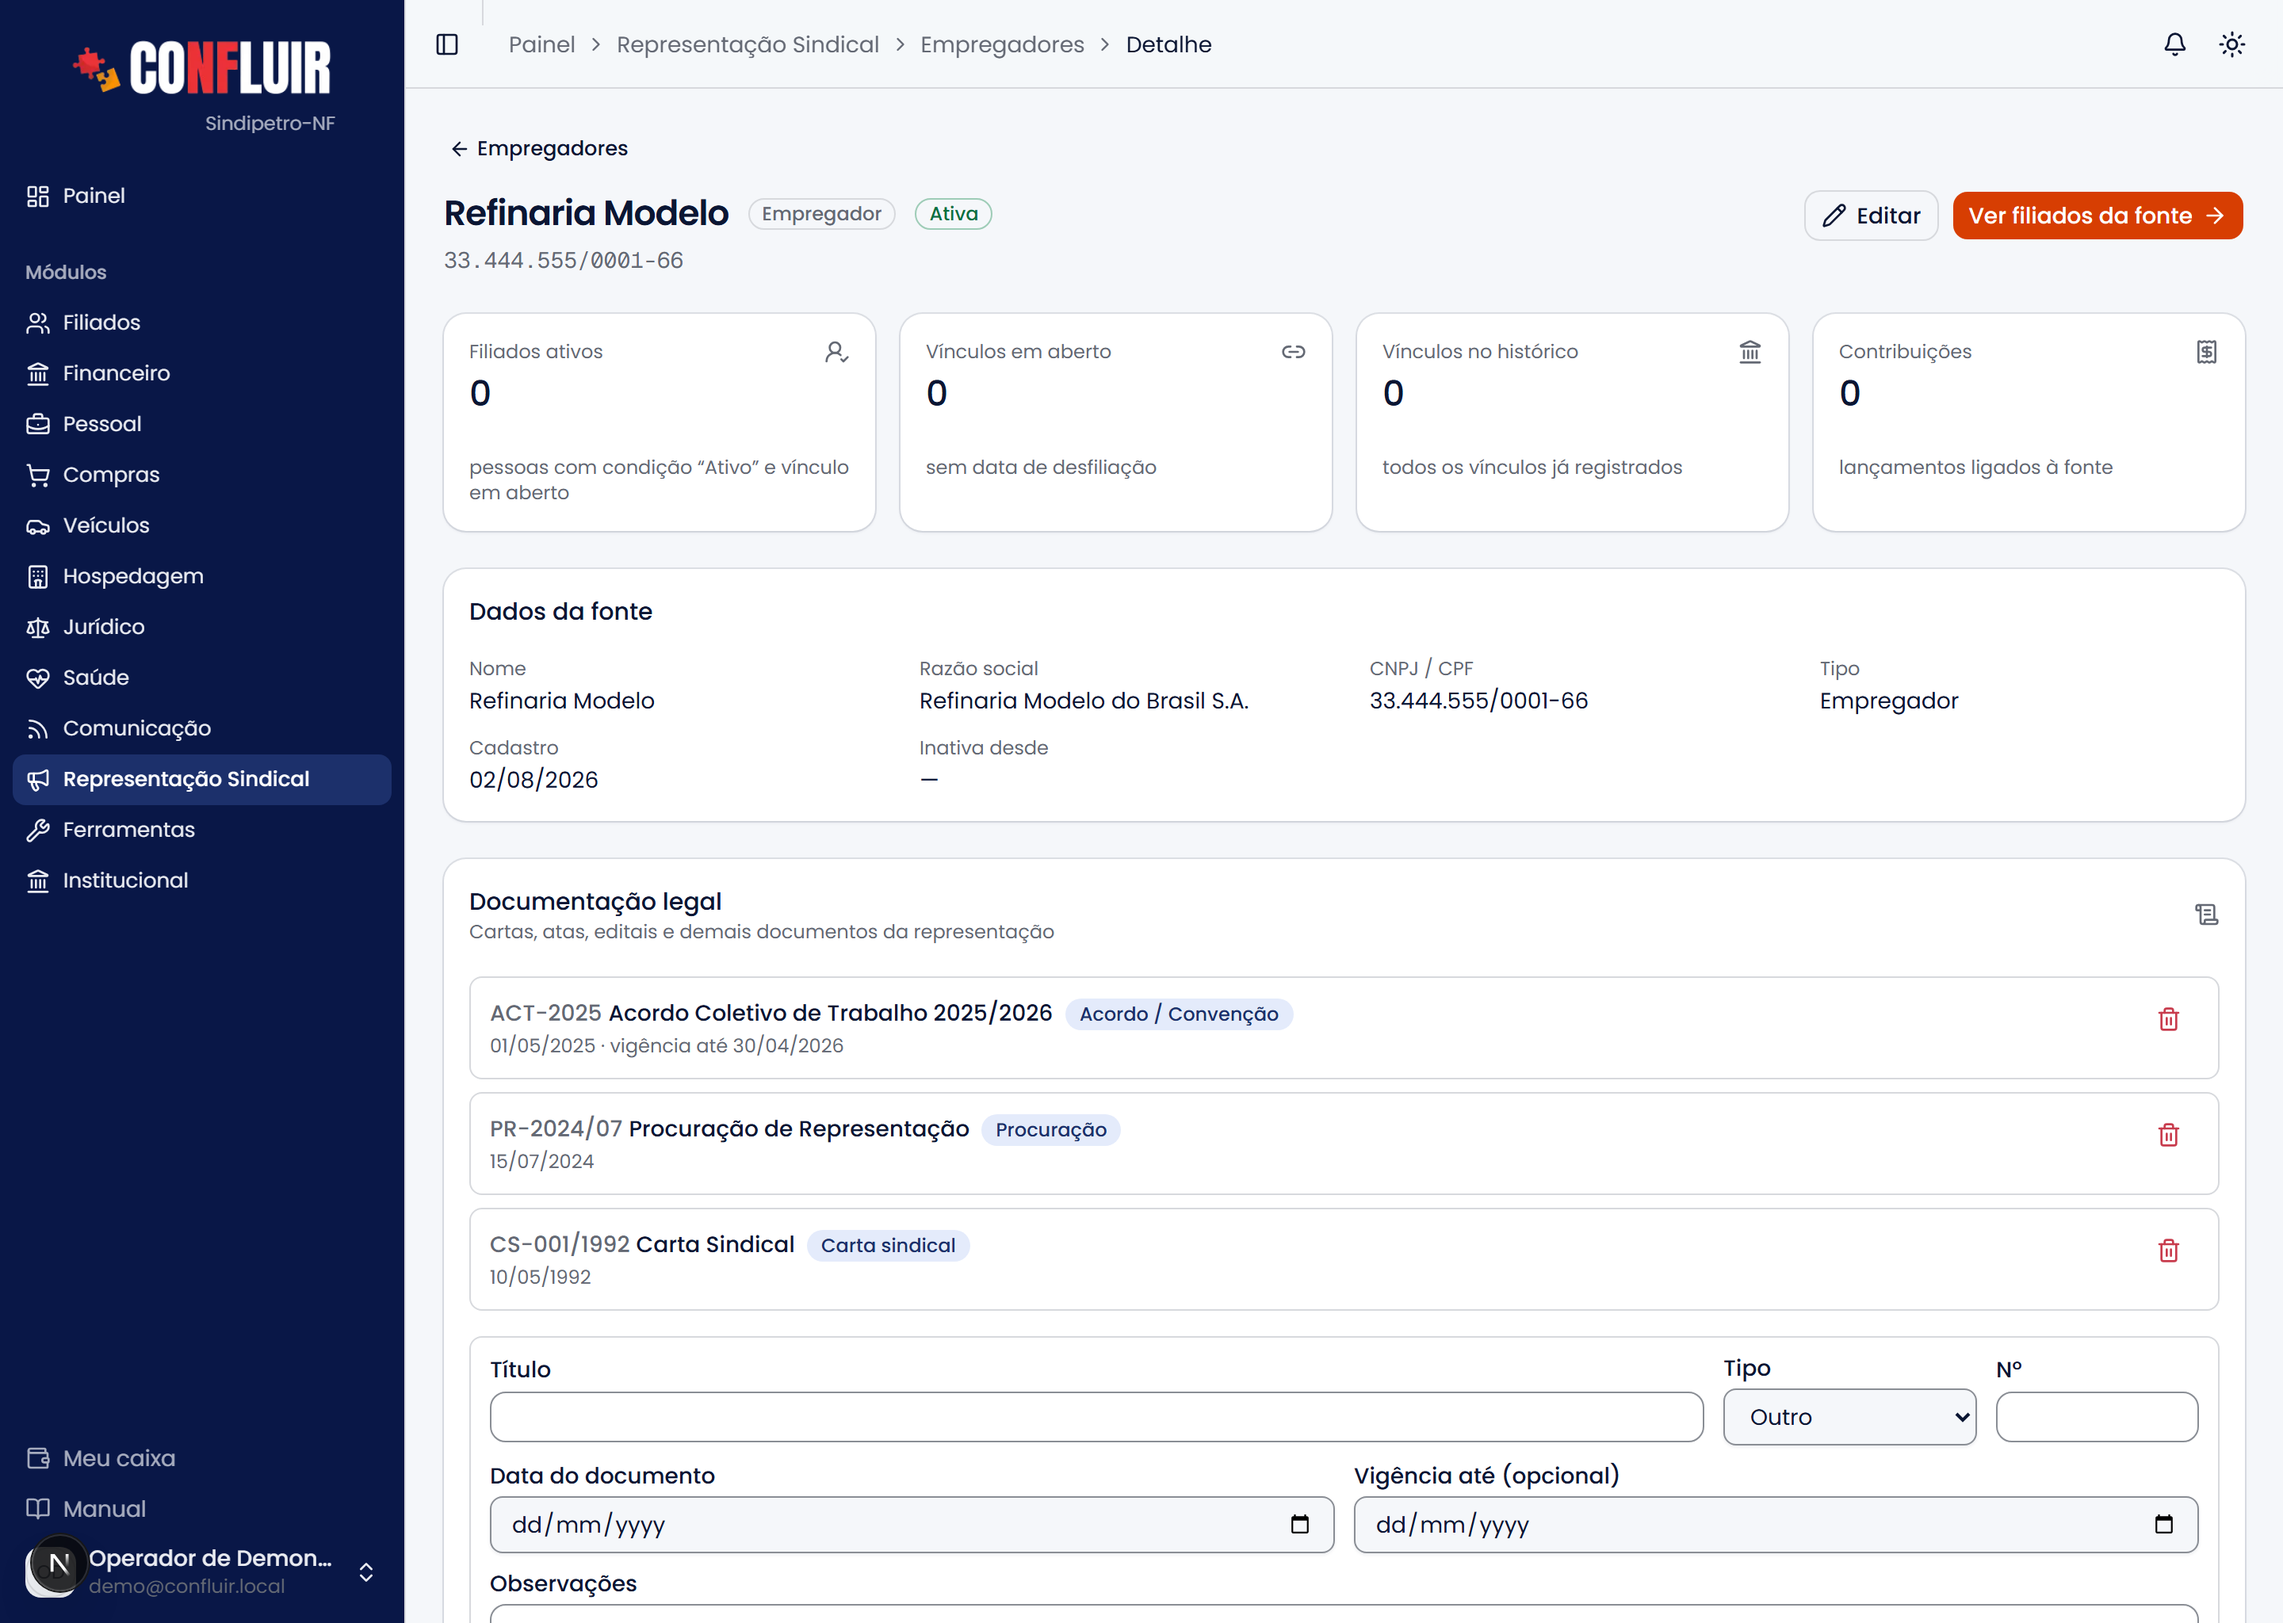
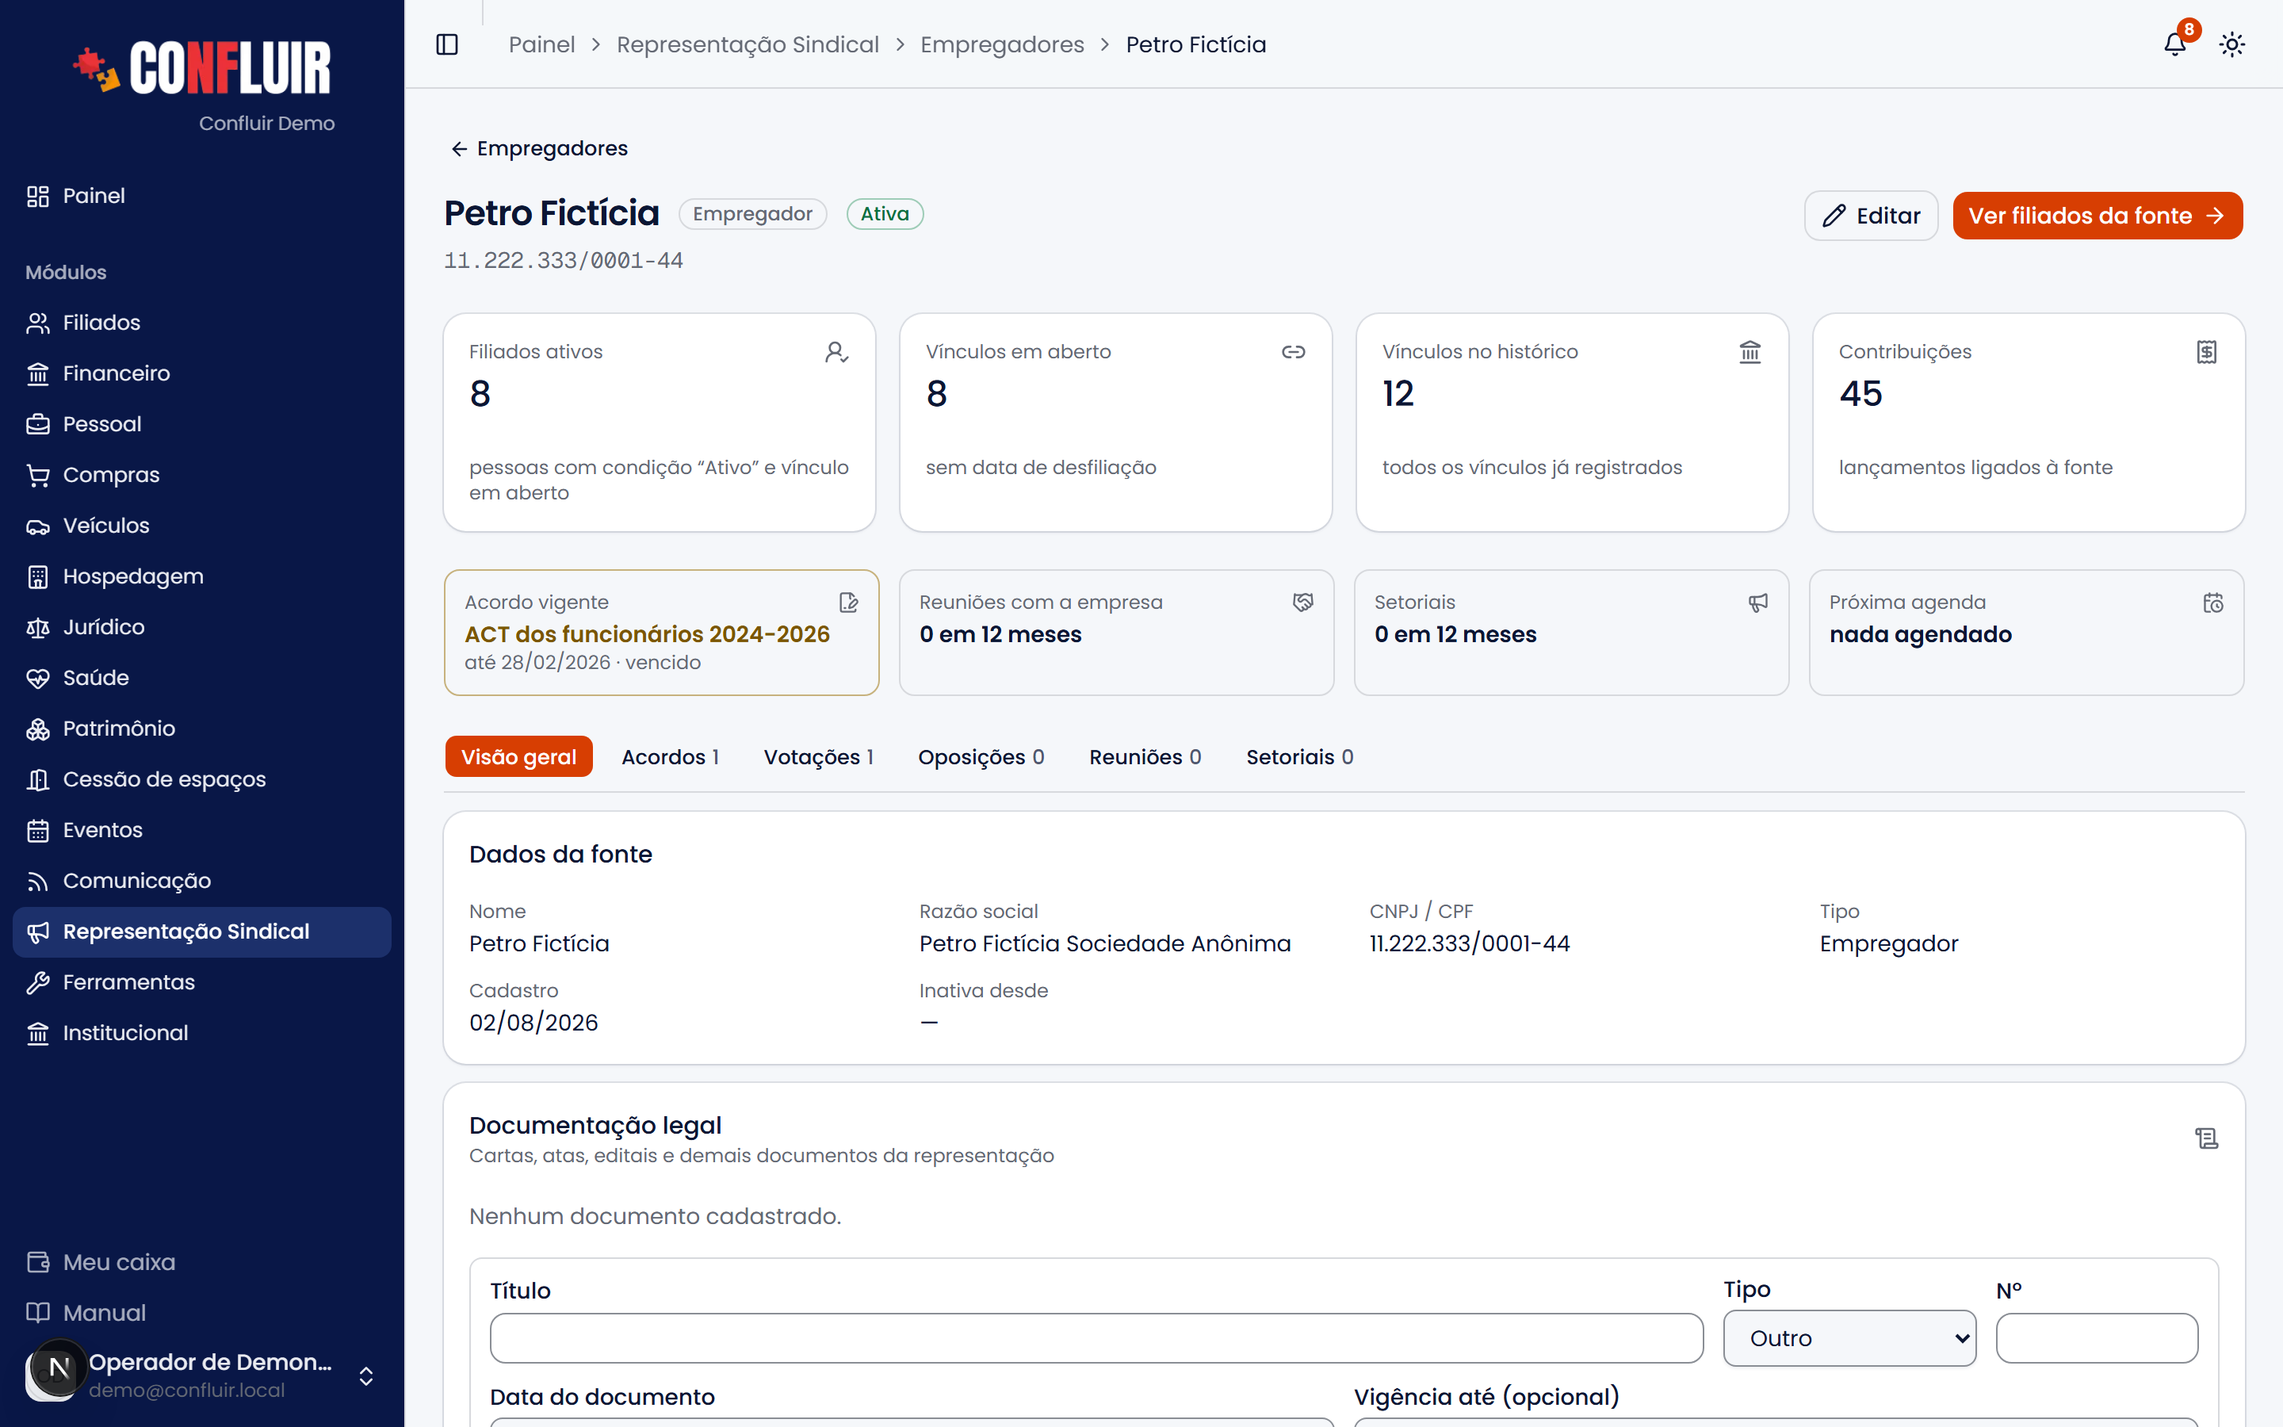
Manual: Empregadores — página com abas, reuniões e setoriais
O artigo de Empregadores descreve a página refeita em 1f18bed: indicadores
(filiação, acordo vigente, reuniões e setoriais em 12 meses, próxima agenda),
as abas Visão geral, Acordos (vigentes e arquivados por padrão), Votações e
Oposições com a permissão de cada área, e o registro de reuniões com o
empregador e setoriais — com a ata em PDF lida pela IA, que preenche os
campos vazios.

Prints: empregador.png refeito e reuniao-nova.png. A base de ajuda foi
gerada só com este artigo (o comprar.mdx em andamento de outra sessão fica
de fora).

diff --git a/src/lib/ajuda/base-conhecimento.ts b/src/lib/ajuda/base-conhecimento.ts
@@ -407,7 +407,7 @@ export const BASE_AJUDA: ArtigoBase[] = [
   {
     "area": "representacao",
     "slug": "empregadores",
-    "texto": "Os empregadores (fontes pagadoras) são as empresas onde os filiados\ntrabalham. É desse cadastro que o sistema sabe de onde vem o desconto da\ncontribuição e para quem se enviam ofícios de filiação/desfiliação.\n\n Empregadores e fontes pagadoras \n\n Fontes pagadoras\n\nCada empregador reúne seus dados e a documentação legal — os instrumentos\nque embasam a representação junto àquela empresa. Aqui também fica o registro\nsindical junto ao MTE, que fundamenta a base territorial e de categoria.\n\nVínculo com o filiado: \n No perfil do filiado, os vínculos apontam para essas fontes pagadoras.\n Manter o cadastro em dia mantém a base de descontos e a comunicação com as\n empresas corretas.\n \n\n Acordos coletivos\n\n Acordos coletivos \n\nOs acordos coletivos negociados também vivem na Representação, com sua\ndocumentação, ligados ao contexto das empresas abrangidas.\n\n Erros comuns\n\n- \"O desconto de um filiado saiu na empresa errada.\" Corrija o vínculo do\n filiado (a fonte pagadora) no perfil dele — é o vínculo que direciona o\n desconto e os ofícios.\n- \"O ofício foi para o endereço/empresa errado.\" Confira os dados do\n empregador aqui; os ofícios usam esse cadastro.\n- \"Não acho o acordo coletivo de uma empresa.\" Os acordos ficam na\n Representação, ligados às empresas abrangidas — exigem a permissão Acordos\n coletivos."
+    "texto": "Os empregadores (fontes pagadoras) são as empresas onde os filiados\ntrabalham. É desse cadastro que o sistema sabe de onde vem o desconto da\ncontribuição e para quem se enviam ofícios de filiação/desfiliação. A\npágina de cada empregador reúne tudo o que a entidade tem com aquela empresa:\nfiliados, acordos, votações, oposições, reuniões e setoriais.\n\n Empregadores e fontes pagadoras \n\n A página do empregador\n\nNo topo ficam o nome, o CNPJ, o tipo (empregador ou fundo de pensão), a\nsituação e os botões Editar e Ver filiados da fonte. Logo abaixo, os\nindicadores:\n\n- Filiados ativos, vínculos em aberto, vínculos no histórico e\n contribuições ligadas à fonte;\n- o acordo vigente, as reuniões com a empresa e as setoriais dos\n últimos 12 meses, e a próxima agenda.\n\n \n\n As abas\n\n- Visão geral — os dados da fonte e a documentação legal: cartas,\n atas, editais e demais documentos da representação.\n- Acordos — os acordos coletivos ligados a este empregador em Acordos\n coletivos, com vigência e quantidade de cláusulas. Por padrão aparecem os\n fechados (vigentes e arquivados); o filtro mostra também os em\n negociação. Acordos coletivos \n- Votações — as campanhas de votação em que a empresa está entre as fontes.\n Votações e assembleias \n- Oposições — as cartas de oposição dos trabalhadores da empresa.\n Oposição à contribuição assistencial \n- Reuniões e Setoriais — o registro dos encontros (abaixo).\n\nCada aba tem os próprios filtros, colunas que ordenam com um clique e\npaginação. Quem não tem a permissão de uma área não vê a aba dela.\n\n Reuniões e setoriais\n\nDois tipos de encontro, registrados do mesmo jeito:\n\n- Reunião com o empregador — sindicato × empresa: negociação, mesa\n permanente, comissão, audiência;\n- Setorial — sindicato × trabalhadores da empresa, numa unidade ou local\n de trabalho (a P-50, turno A; a base de Imbetiba).\n\n \n \nNova reunião ou Nova setorial: \n Na aba correspondente, abra o formulário: título, situação (agendada,\n realizada, cancelada), data, início e término, modalidade (presencial,\n on-line ou híbrida) com o local ou o link, e — na setorial — a unidade e\n quantos trabalhadores estavam presentes.\n \n \nAnexar a ata em PDF (opcional): \n Ao escolher o arquivo, a IA lê a ata — digital ou escaneada — e\n preenche data, horário, local, pauta, resumo, encaminhamentos e\n participantes. Numa reunião já registrada, ela só preenche os campos que\n estiverem vazios. Confira antes de salvar.\n \n \nPauta, resumo e encaminhamentos: \n A pauta, um assunto por linha; o resumo do que se discutiu; os\n encaminhamentos — decisões, compromissos e prazos, um por linha.\n \n \nParticipantes: \n Pelo sindicato, marque diretores e funcionários (a busca filtra pelo\n nome) e, em Outros pelo sindicato, quem não tem conta no sistema. Pela\n empresa, um por linha no formato Nome — cargo; na setorial, os\n trabalhadores também podem ser listados (Nome — função).\n \n \n\nA ata fica guardada: \n A ata anexada abre pela página da reunião (Abrir a ata). Para trocar,\n edite a reunião e anexe outra — ou use remover ata. O PDF pode ter até\n 25 MB.\n \n\n \n\nVínculo com o filiado: \n No perfil do filiado, os vínculos apontam para essas fontes pagadoras.\n Manter o cadastro em dia mantém a base de descontos e a comunicação com as\n empresas corretas.\n \n\n Erros comuns\n\n- \"O desconto de um filiado saiu na empresa errada.\" Corrija o vínculo do\n filiado (a fonte pagadora) no perfil dele — é o vínculo que direciona o\n desconto e os ofícios.\n- \"O ofício foi para o endereço/empresa errado.\" Confira os dados do\n empregador aqui; os ofícios usam esse cadastro.\n- \"Não vejo a aba Acordos (ou Votações, ou Oposições).\" Cada uma depende da\n permissão da área correspondente.\n- \"A aba Acordos está vazia.\" O acordo precisa ter este empregador entre as\n fontes pagadoras, em Acordos coletivos — e, por padrão, a aba mostra só os\n vigentes e arquivados.\n- \"A IA não leu a ata.\" O PDF pode estar ilegível ou não ser uma ata. Preencha\n os campos à mão — a ata continua anexada."
   },
   {
     "area": "representacao",
